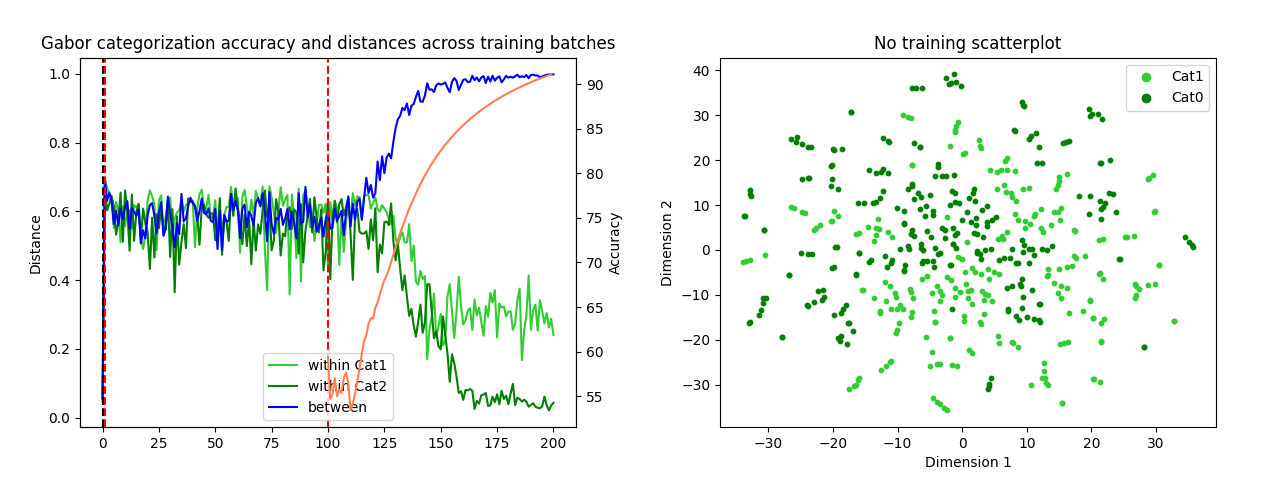
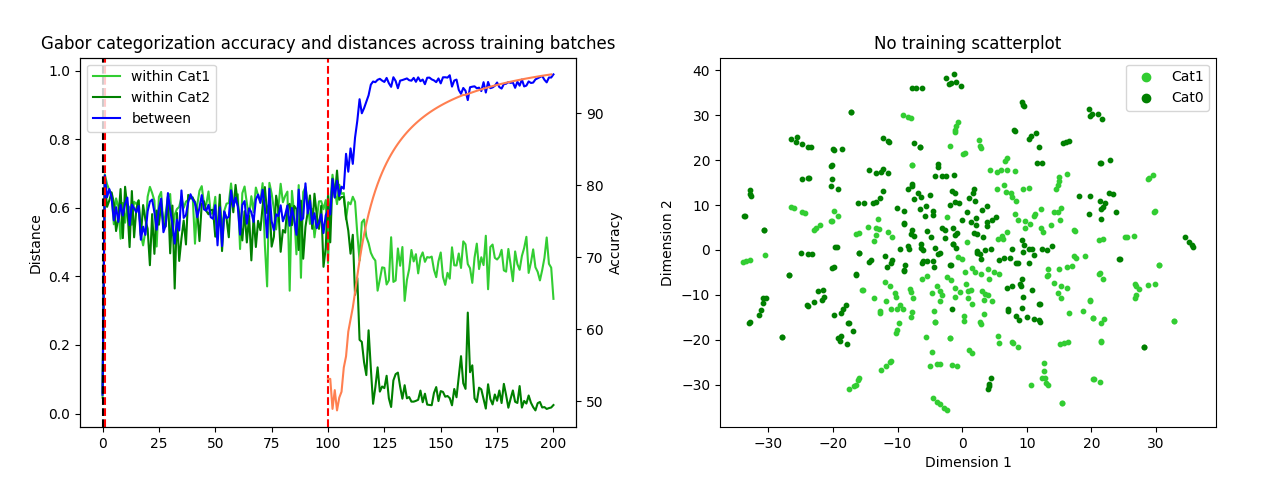
Encoder works but positional encoding doesnt yet

diff --git a/christian/src/Transformer.py b/christian/src/Transformer.py
@@ -1,0 +1,70 @@
+import math
+import torch.nn as nn
+import torch
+
+class PositionalEncoding(nn.Module):
+
+    def __init__(self, d_model=16*16, dropout= 0.1, max_len = 5000):
+        super().__init__()
+        self.dropout = nn.Dropout(p=dropout)
+
+        position = torch.arange(max_len).unsqueeze(1)
+        div_term = torch.exp(torch.arange(0, d_model, 2) * (-math.log(10000.0) / d_model))
+        pe = torch.zeros(max_len, 1, d_model)
+        pe[:, 0, 0::2] = torch.sin(position * div_term)
+        pe[:, 0, 1::2] = torch.cos(position * div_term)
+        self.register_buffer('pe', pe)
+
+    def forward(self, x):
+        x = x + self.pe[:x.size(0)] #adding positional encoding to matrix
+        return self.dropout(x)
+
+class Transformer(nn.Module):
+    def __init__(self):
+        super().__init__()
+        self.encoded = None
+
+        self.nn1_encoder = nn.Sequential(
+
+            nn.Conv2d(3, 16, kernel_size=4, stride=2, padding=1),  # 128x128 -> 64x64
+            nn.ReLU(True),
+            nn.Conv2d(16, 16, kernel_size=4, stride=2, padding=1),  # 64x64 -> 32x32
+            nn.ReLU(True),
+            nn.Conv2d(16, 16, kernel_size=4, stride=2, padding=1),  # 32x32 -> 16x16
+            nn.ReLU(True),
+
+
+        ) #batch, 16*16*16 output -> turn into batch, 16, 16*16
+
+        self.att = nn.ModuleList(nn.MultiheadAttention(16*16, 16, batch_first=True) for _ in range(5))
+
+        self.nn2_encoder = nn.Sequential(
+
+            nn.Conv2d(16, 16, kernel_size=4, stride=2, padding=1),  # 16x16 -> 8x8
+            nn.ReLU(True),
+            nn.Conv2d(16, 16, kernel_size=4, stride=2, padding=1),  # 8x8 -> 4x4
+            nn.ReLU(True),
+            nn.Flatten(),
+            nn.Linear(256, 128),
+            nn.ReLU(True),
+
+        )
+
+    def forward(self, x):
+        x = self.nn1_encoder(x)
+        x = x.reshape(x.size(0), 16, 16*16)
+        positional_encoder = PositionalEncoding()
+        #x = positional_encoder(x)
+
+        for multihead in self.att:
+            x, _ = multihead(x, x, x)
+        x = x.reshape(x.size(0), 16, 16,16)
+        x = self.nn2_encoder(x)
+        self.encoded = x
+        return x
+
+if __name__ == '__main__':
+    t = Transformer()
+    input = torch.randn(1, 3, 128, 128)
+    output = t(input)
+    print(output.size())

diff --git a/christian/src/plotter.py b/christian/src/plotter.py
@@ -27,10 +27,10 @@ class ParentPlotter:
     def combine_plots(self):
         for index in range(0, 201):
             if index == 0:
-                a = f"../whole_plots/blue-green/slow_lr_freq/Lr=0.001 0.png"
+                a = f"../whole_plots/blue-green/fast_lr_freq/Lr=0.01 0.png"
                 b = "../whole_plots/scatter_plots/no_train/no_training.png"
                 merge(a, b, title="no_train ", loc=self.combined_dir)
-
+            '''
             elif index < 101:
                 a  = f"{self.blue_green_dir}/Lr={self.lr} {index}.png"
                 b = f"../whole_plots/scatter_plots/unsup/unsup lr = 0.001, 0 {index-1}.png"
@@ -40,7 +40,7 @@ class ParentPlotter:
                 a = f"{self.blue_green_dir}/Lr={self.lr} {index}.png"
                 b = f"{self.scatter_plots_dir}/sup lr = {self.lr}, 0 {index - 101}.png"
                 merge(a, b, title=f"z sup {index} ", loc=self.combined_dir)
-
+            '''
 class Slow_lr_Freq_Plotter(ParentPlotter):
     def __init__(self):
         super().__init__()
